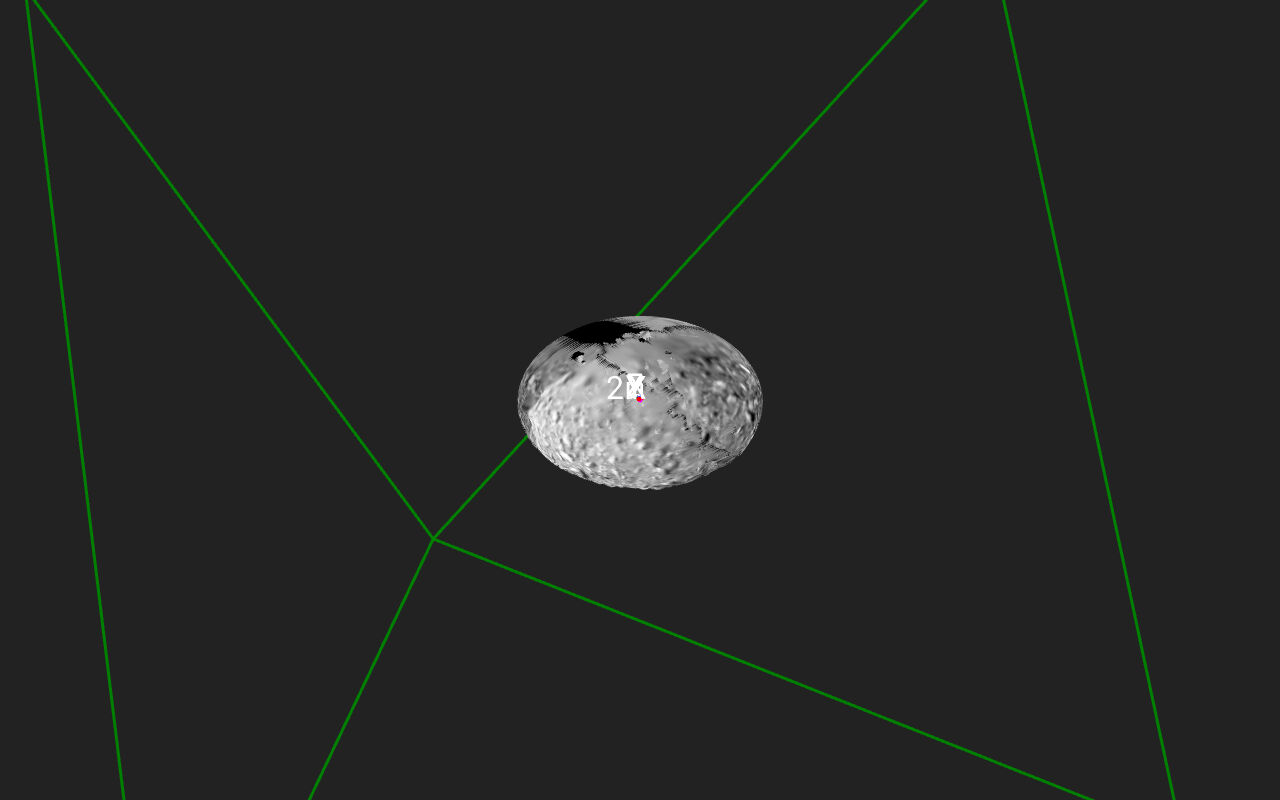
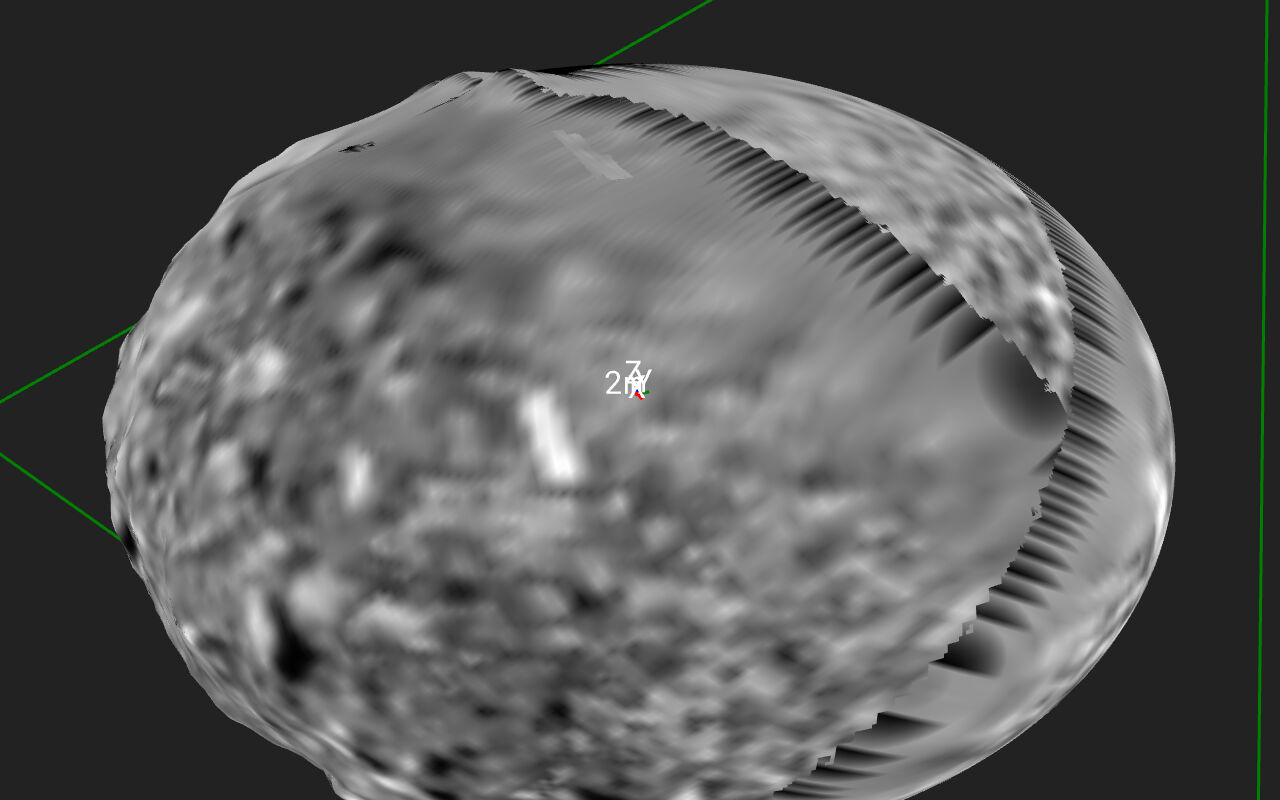
docs(gis): real type in the teaser, scene setup per the scene body, concrete paths
Review feedback on the previous commit.

The panel captions were drawn with a hand-rolled 5x7 bitmap font -- it mimicked
nothing and looked it. The collage is now laid out as HTML and screenshotted:
tests-ui ships no font package, and the browser rendering the panels is already
running, so this costs nothing and gives real type. Captions carry the measured
numbers, so they cannot drift from the panels they label.

Section 1 no longer walks through per-surface entity and frame assignment. With
the scene body (#758) picking the planet is enough: a surface with no GIS
assignment of its own inherits it (getSpiceReferenceSystemFromSurfaces), so a
single-body scene needs nothing else. What remains is what still matters --
assign explicitly only for other bodies, and assign both or neither, because a
half assignment stays unplaced. The unbound-scene symptom text went with it.

Sections 1 and 2 now name the data: the Dimorphos OPC and the AFC frames both
ship in PRo3D.Resources.TestData, with their paths.

The intro now says outright that order and opacity are both set in the GUI, and
where.

Trimmed throughout -- 2395 words to 2176, with more facts in it. Dropped the
opacity-sweep figure of "about a tenth of the frame's pixels", which was carried
over unverified from an earlier session; the qualitative test (does anything
shift or double) is the one a reader can actually apply.

diff --git a/tests-ui/src/probe-teaser.ts b/tests-ui/src/probe-teaser.ts
@@ -244,85 +244,58 @@ async function setUpProjection(ctx: import("@playwright/test").BrowserContext, u
 
 // ---------------------------------------------------------------- collage
 
-function label(png: PNG, text: string) {
-    // a plain 5x7 bitmap font, drawn white on a black band -- no external font files,
-    // so the collage regenerates identically anywhere
-    const F: Record<string, string[]> = {
-        A: ["01110", "10001", "10001", "11111", "10001", "10001", "10001"],
-        B: ["11110", "10001", "10001", "11110", "10001", "10001", "11110"],
-        C: ["01110", "10001", "10000", "10000", "10000", "10001", "01110"],
-        D: ["11110", "10001", "10001", "10001", "10001", "10001", "11110"],
-        E: ["11111", "10000", "10000", "11110", "10000", "10000", "11111"],
-        F: ["11111", "10000", "10000", "11110", "10000", "10000", "10000"],
-        G: ["01110", "10001", "10000", "10111", "10001", "10001", "01111"],
-        H: ["10001", "10001", "10001", "11111", "10001", "10001", "10001"],
-        I: ["11111", "00100", "00100", "00100", "00100", "00100", "11111"],
-        J: ["00111", "00010", "00010", "00010", "00010", "10010", "01100"],
-        K: ["10001", "10010", "10100", "11000", "10100", "10010", "10001"],
-        L: ["10000", "10000", "10000", "10000", "10000", "10000", "11111"],
-        M: ["10001", "11011", "10101", "10101", "10001", "10001", "10001"],
-        N: ["10001", "11001", "10101", "10011", "10001", "10001", "10001"],
-        O: ["01110", "10001", "10001", "10001", "10001", "10001", "01110"],
-        P: ["11110", "10001", "10001", "11110", "10000", "10000", "10000"],
-        R: ["11110", "10001", "10001", "11110", "10100", "10010", "10001"],
-        S: ["01111", "10000", "10000", "01110", "00001", "00001", "11110"],
-        T: ["11111", "00100", "00100", "00100", "00100", "00100", "00100"],
-        U: ["10001", "10001", "10001", "10001", "10001", "10001", "01110"],
-        V: ["10001", "10001", "10001", "10001", "10001", "01010", "00100"],
-        W: ["10001", "10001", "10001", "10101", "10101", "11011", "10001"],
-        X: ["10001", "10001", "01010", "00100", "01010", "10001", "10001"],
-        Y: ["10001", "10001", "01010", "00100", "00100", "00100", "00100"],
-        Z: ["11111", "00001", "00010", "00100", "01000", "10000", "11111"],
-        " ": ["00000", "00000", "00000", "00000", "00000", "00000", "00000"],
-        "-": ["00000", "00000", "00000", "11111", "00000", "00000", "00000"],
-        ",": ["00000", "00000", "00000", "00000", "00110", "00010", "00100"],
-        "+": ["00000", "00100", "00100", "11111", "00100", "00100", "00000"],
-        "1": ["00100", "01100", "00100", "00100", "00100", "00100", "01110"],
-        "2": ["01110", "10001", "00001", "00110", "01000", "10000", "11111"],
-        "3": ["11111", "00010", "00100", "00010", "00001", "10001", "01110"],
-        "4": ["00010", "00110", "01010", "10010", "11111", "00010", "00010"],
-    };
-    const S = 3, pad = 10, bandH = 7 * S + pad * 2;
-    for (let y = 0; y < bandH; y++)
-        for (let x = 0; x < png.width; x++) {
-            const i = (png.width * y + x) * 4;
-            png.data[i] = png.data[i + 1] = png.data[i + 2] = 0;
-            png.data[i + 3] = 255;
-        }
-    let cx = pad;
-    for (const ch of text.toUpperCase()) {
-        const glyph = F[ch] ?? F[" "];
-        for (let gy = 0; gy < 7; gy++)
-            for (let gx = 0; gx < 5; gx++) {
-                if (glyph[gy][gx] !== "1") continue;
-                for (let dy = 0; dy < S; dy++)
-                    for (let dx = 0; dx < S; dx++) {
-                        const x = cx + gx * S + dx, y = pad + gy * S + dy;
-                        if (x >= png.width) continue;
-                        const i = (png.width * y + x) * 4;
-                        png.data[i] = png.data[i + 1] = png.data[i + 2] = 255;
-                    }
-            }
-        cx += 6 * S;
-    }
-}
+/** Compose the four panels with real type.
+ *
+ *  The panels are laid out as HTML and screenshotted, rather than blitted together
+ *  with a hand-rolled bitmap font: there is no font package in tests-ui, and the
+ *  browser that renders the panels is already running. */
+async function collageHtml(
+    ctx: import("@playwright/test").BrowserContext,
+    panels: Array<{ file: string; caption: string; note: string }>,
+    w: number,
+    h: number
+): Promise<Buffer> {
+    const html = `<!doctype html><meta charset="utf-8">
+<style>
+  :root { color-scheme: dark }
+  * { margin: 0; padding: 0; box-sizing: border-box }
+  body { background: #111; }
+  .grid {
+    display: grid; grid-template-columns: ${w}px ${w}px; gap: 10px;
+    padding: 10px; width: max-content;
+  }
+  figure { position: relative; width: ${w}px; height: ${h}px; overflow: hidden; }
+  img { display: block; width: ${w}px; height: ${h}px; }
+  figcaption {
+    position: absolute; left: 0; right: 0; bottom: 0;
+    padding: 14px 18px 13px;
+    background: linear-gradient(to top, rgba(0,0,0,.85), rgba(0,0,0,.55) 60%, transparent);
+    font: 500 19px/1.35 "Segoe UI", system-ui, -apple-system, "Helvetica Neue", Arial, sans-serif;
+    color: #fff; display: flex; align-items: baseline; gap: .6em;
+  }
+  .n {
+    font-variant-numeric: tabular-nums; font-weight: 600;
+    color: #fff; opacity: .55; font-size: 17px;
+  }
+  .note { margin-left: auto; opacity: .72; font-size: 16px; font-weight: 400; }
+</style>
+<div class="grid">
+${panels.map((p, i) => `  <figure>
+    <img src="${path.basename(p.file)}">
+    <figcaption><span class="n">${i + 1}</span>${p.caption}<span class="note">${p.note}</span></figcaption>
+  </figure>`).join("\n")}
+</div>`;
+    const file = path.join(work, "collage.html");
+    fs.writeFileSync(file, html);
 
-function collage(panels: PNG[], gap = 8): Buffer {
-    const w = panels[0].width, h = panels[0].height;
-    const out = new PNG({ width: w * 2 + gap, height: h * 2 + gap });
-    out.data.fill(0);
-    panels.forEach((p, i) => {
-        const ox = (i % 2) * (w + gap), oy = Math.floor(i / 2) * (h + gap);
-        for (let y = 0; y < h; y++)
-            for (let x = 0; x < w; x++) {
-                const s = (y * w + x) * 4, d = ((y + oy) * out.width + (x + ox)) * 4;
-                out.data[d] = p.data[s];
-                out.data[d + 1] = p.data[s + 1];
-                out.data[d + 2] = p.data[s + 2];
-                out.data[d + 3] = 255;
-            }
-    });
-    return PNG.sync.write(out);
+    const page = await ctx.newPage();
+    await page.setViewportSize({ width: w * 2 + 30, height: h * 2 + 30 });
+    await page.goto("file:///" + file.replace(/\\/g, "/"));
+    await page.waitForLoadState("networkidle");
+    await page.evaluate("document.fonts.ready");
+    const buf = await page.locator(".grid").screenshot();
+    await page.close();
+    return buf;
 }
 
 // ---------------------------------------------------------------- main
@@ -476,12 +449,25 @@ async function main() {
     console.log(`3 second side    coverage=${(m3.coverage * 100).toFixed(1)}%  unobserved=${(m3.darkOfBody * 100).toFixed(1)}% of body`);
     console.log(`4 frustum        greenPixels=${m4.greenPixels}  coverage=${(m4.coverage * 100).toFixed(1)}%`);
 
-    label(p1, "1 DRACO MOSAIC ONLY");
-    label(p2, "2 PLUS 4 AFC IMAGES");
-    label(p3, "3 SECOND DIRECTION");
-    label(p4, "4 PROJECTOR FRUSTUM");
-
-    const buf = collage([p1, p2, p3, p4]);
+    // captions carry the measured numbers, so they cannot drift from the panels
+    const pct = (x: number) => `${Math.round(x * 100)}% unobserved`;
+    const browser = await chromium.launch();
+    let buf: Buffer;
+    try {
+        buf = await collageHtml(
+            await browser.newContext(),
+            [
+                { file: path.join(work, "b0-bare.png"), caption: "DRACO mosaic only", note: pct(m1.darkOfBody) },
+                { file: path.join(work, "b0-stacked.png"), caption: "Plus four AFC images", note: pct(m2.darkOfBody) },
+                { file: path.join(work, "b2-stacked.png"), caption: "A second direction", note: pct(m3.darkOfBody) },
+                { file: path.join(work, "b1-frustum.png"), caption: "Projector frustum of a hovered image", note: `camera ${(198.77 * k).toFixed(0)} m` },
+            ],
+            p1.width,
+            p1.height
+        );
+    } finally {
+        await browser.close();
+    }
     fs.writeFileSync(path.join(work, "multiProjection-teaser.png"), buf);
     fs.writeFileSync(path.join(outDir, "multiProjection-teaser.png"), buf);
     console.log(`\nteaser -> ${path.join(outDir, "multiProjection-teaser.png")}`);

diff --git a/docs/MultiImageProjection.md b/docs/MultiImageProjection.md
@@ -4,39 +4,58 @@
 
 Project an **ordered stack of up to 32 same-instrument images** onto a surface
 at once — e.g. a flyby sequence over an asteroid. Lives in the GIS tab under
-*Projected Images*. Where images overlap, the image **higher in the stack wins**
-(painter's order, opaque); the opacity slider blends the stack's result with
-the surface texture underneath.
+*Projected Images*.
+
+Order and opacity are both set in the GUI:
+
+- **Order** — where images overlap, the one **higher in the stack wins**
+  (painter's order, opaque). Reorder with ↑ / ↓ in the stack panel.
+- **Opacity** — *Projection Settings → Image Opacity* blends the stack's result
+  with the surface texture underneath.
 
 Panels 1 and 2 above are the same camera on the same body. Dimorphos carries its
-DRACO mosaic, which does not cover the whole body: from this direction **72% of
-the visible body is unobserved** and renders black. Projecting four AFC frames
-onto it brings that down to **7%**. Panels 3 and 4 show a second direction and
-the frustum of a hovered image. All four are produced by
-`tests-ui/src/probe-teaser.ts` from the shipped test data.
+DRACO mosaic, which does not cover it entirely: from this direction **72% of the
+visible body is unobserved** and renders black. Four AFC frames bring that to
+**7%**. `tests-ui/src/probe-teaser.ts` regenerates all four panels.
 
 # Workflow
 
 ## 1. Set up the scene
 
-The projection surface needs a GIS **entity and reference frame** assigned
-(GIS tab → *Surfaces* — e.g. entity `Dimorphos`, frame `DIMORPHOS_FIXED`), and
-a SPICE kernel with coverage for the observation epochs must be loaded. Watch
-out: the entity must be the body the OPC actually is — assigning `Didymos` to a
-Dimorphos OPC draws it a kilometre off.
+Pick the **planet** in the top bar. That sets the [scene body](SceneBody.md), and
+a surface with no GIS assignment of its own belongs to it — so for a single-body
+scene there is nothing else to set. A SPICE kernel covering the observation
+epochs must be loaded.
 
-Without that binding there is no frame for the projection to land in, and the symptom is
-easy to misread as a projector bug: the image sits offset against the silhouette. The HUD
-tells you — if it reads `None xyz` and `conversion failed (set planet)` instead of the body
-name, fix the scene before looking at the projection.
+For surfaces of *other* bodies, assign entity and frame explicitly in
+GIS tab → *Surfaces*. Two things to watch:
+
+- The entity must be the body the OPC actually is — assigning `Didymos` to a
+  Dimorphos OPC draws it a kilometre off.
+- Assign **both** or **neither**. A surface with a body but no frame, or a frame
+  but no body, stays unplaced.
+
+The walkthrough below uses the Dimorphos OPC that ships with
+[PRo3D.Resources.TestData](https://github.com/pro3d-space/PRo3D.Resources.TestData):
+
+```
+HERA/Dimorphos_opc/Dimorphos/
+```
 
 ## 2. Import a folder of images
 
 *Projected Images → Import Directory*. Every image of the folder
 (`.tif/.png/.jpg/.exr`, each with its `.mbi.json` sidecar) lands in the
-**library** at the bottom of the tab: sortable by observation date and
-distance, with instrument, distance and observation date per image. Sorting
-the library never changes what is projected.
+**library** at the bottom of the tab, with instrument, distance and observation
+date per image, sortable by date or distance. Sorting never changes what is
+projected.
+
+The four AFC-1 frames used throughout this page are in the same test-data
+repository:
+
+```
+HERA/Dimorphos_opc/AFC_2027-03-21/
+```
 
 ![the Projected Images section: import, stack panel, library](images/multiProjection-gisTab.png)
 
@@ -54,28 +73,19 @@ Settings and the selected image's 2D preview fold away into the
 
 ## 3. Find images by hovering
 
-**Hovering a library or stack row shows where that image would land**, without
-changing what is projected. Two things are drawn for the hovered image only:
-
-- its **projector frustum**, as a green wireframe running from the instrument to
-  the body, and
-- a **green outline on the surface** wherever the edge of its footprint crosses
-  the terrain.
+Hovering a library or stack row draws, for that image only, its **projector
+frustum** as a green wireframe and a **green outline** wherever the edge of its
+footprint crosses the terrain. It does not project the image: to see an image's
+pixels, select it or add it to the stack (4.).
 
 ![hovering an image: its projector frustum drawn from the instrument to Dimorphos](images/multiProjection-hover.png)
 
-The frustum is drawn at the instrument's real standoff, so you usually have to
-pull the camera back to see it whole. Above, the camera is 795 m from a body
-154 m across and the projector sits 8.4 km out.
+The frustum is drawn at the instrument's real standoff, so pull the camera back
+to see it whole — above, the camera is 795 m out and the projector 8.4 km.
 
-Expect the surface outline only where a footprint *edge* actually falls on the
-terrain. The AFC-1 frames in the test data were taken from 6.7–8.4 km, and at
-that instrument's 5.53° field that is a footprint 650–810 m across — four to five
-times the body. It covers Dimorphos entirely, so there is no edge to outline.
-
-Hovering does **not** project the image. What you see painted on the terrain
-stays whatever the stack and the selected image put there; to see an image's own
-pixels, select it or add it to the stack (4.).
+The outline appears only where a footprint *edge* falls on the terrain. The
+AFC-1 frames here were taken from 6.7–8.4 km; at 5.53° that is a footprint
+650–810 m across, which covers the 154 m body entirely, so none is drawn.
 
 ## 4. Build the stack
 
@@ -87,31 +97,20 @@ The **+** in a row adds the image to the top of the **projection stack**
 
 ## 4a. Does it actually land? Slide the opacity
 
-The AFC images in the test data were simulated **from this very shape model** with
-`pro3d-tool simulate-image`, so a correctly set up projection has to land exactly on the
-texture underneath it. *Image Opacity* is the quickest way to see whether it does: drag it
-from 0 to 1 and watch the seam.
+The AFC images in the test data were simulated from this same shape model with
+`pro3d-tool simulate-image`, so a correct projection lands exactly on the texture
+underneath. Drag *Image Opacity* from 0 to 1 and watch:
 
 ![the projected image at half opacity, blended with the DRACO texture](images/multiProjection-opacity-050.png)
 
-- **Nothing shifts, doubles or ghosts** as you slide — the image and the terrain texture
-  coincide, so the blend just changes which of two aligned pictures you are looking at.
-- **A ghost or a doubled crater edge** means the projection is landing in the wrong place.
-  Work through [If an image does not land on the terrain](#if-an-image-does-not-land-on-the-terrain).
+- **Nothing shifts or doubles** — image and texture coincide.
+- **A ghost or doubled crater edge** — the projection is landing in the wrong
+  place; see [If an image does not land on the terrain](#if-an-image-does-not-land-on-the-terrain).
 
-Measured on the Dimorphos test data, one AFC frame projected from its own viewpoint: at
-opacity 0 the rendered frame is pixel-identical to the bare surface, and at opacity 1
-about a tenth of the frame's pixels differ from it at all. That residue is the image's own
-noise and shading, not misregistration — a projection landing in the wrong place moves
-crater edges, which shows up as a far larger difference concentrated along them.
-
-Two settings matter for this comparison, and both are worth setting before you judge a
-projection:
-
-| setting | why |
-|---|---|
-| **Transfer Function → off** | on (the default) the image goes through the min/max remap and the colour map, so you are comparing a false-coloured image against a greyscale texture and cannot see registration at all |
-| **Orientation Source → MBI** | the pointing then comes from the image's own `.mbi.json` sidecar, which is what a simulated frame was generated with |
+Set two things first, or the comparison is meaningless: **Transfer Function off**
+(otherwise you are comparing a false-coloured image against a greyscale texture)
+and **Orientation Source → MBI** (the sidecar pointing the frame was generated
+with).
 
 ## 5. Fly to an image
 
@@ -121,8 +120,6 @@ off just far enough to frame the instrument's footprint — the rendered view
 then corresponds to what the instrument saw:
 
 ![after fly-to: the camera on the image's projector axis](images/multiProjection-flyTo.png)
-
-Two things to know:
 
 - **It also sets the scene's observation time** to the image's epoch, so the
   sun, the body's placement and everything else SPICE-driven match the moment

diff --git a/ai/TESTING.md b/ai/TESTING.md
@@ -195,7 +195,16 @@ The HUD, tool strip and colour bar are ordinary absolutely-positioned DOM over
 `img.rendercontrol`, and they are **not** all siblings of it — walking up from the
 render control's parent misses the HUD. Sweep `document.body` and hide every
 `position: absolute|fixed` element that is not an ancestor of the render control.
-The scale bar and axis cross are rendered into the image itself and survive this.
+
+The small centre cross and its "2 m" label are **rendered into the image**, so no
+DOM trick removes them. `config.showExplorationPointGui = false` in the generated
+scene is *not* what controls them — that was tried and changed nothing. Whatever
+draws them was not worth tracking down for a screenshot; if you need them gone,
+find the real toggle first rather than assuming a plausible-looking flag.
+
+For a figure with captions, lay the panels out as HTML and screenshot the element:
+`tests-ui` ships no font package, and the browser rendering the panels is already
+running, so this gives real type instead of a hand-rolled bitmap font.
 
 Tests are machine-local (GPU + local datasets, `PRO3D_*` env vars); they are
 not run in CI, which makes running them locally the only line of defense.
